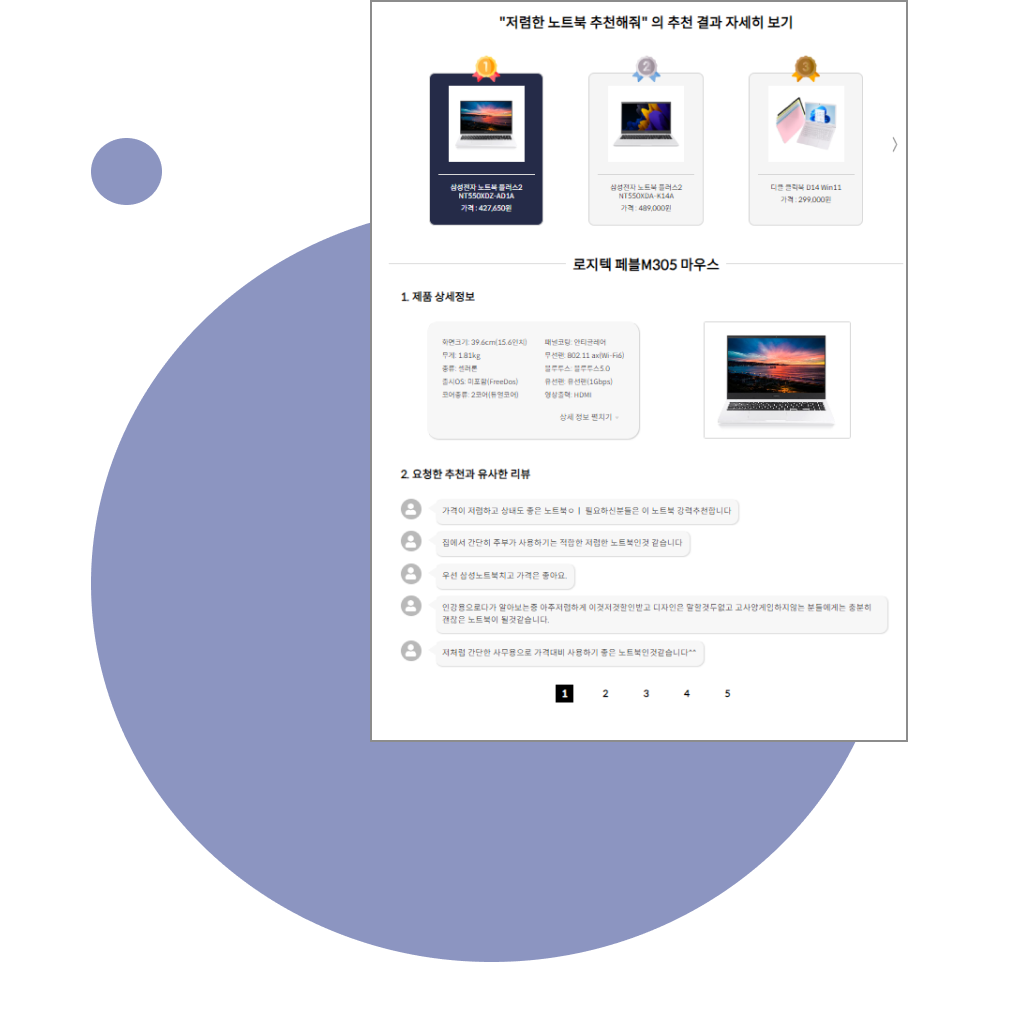
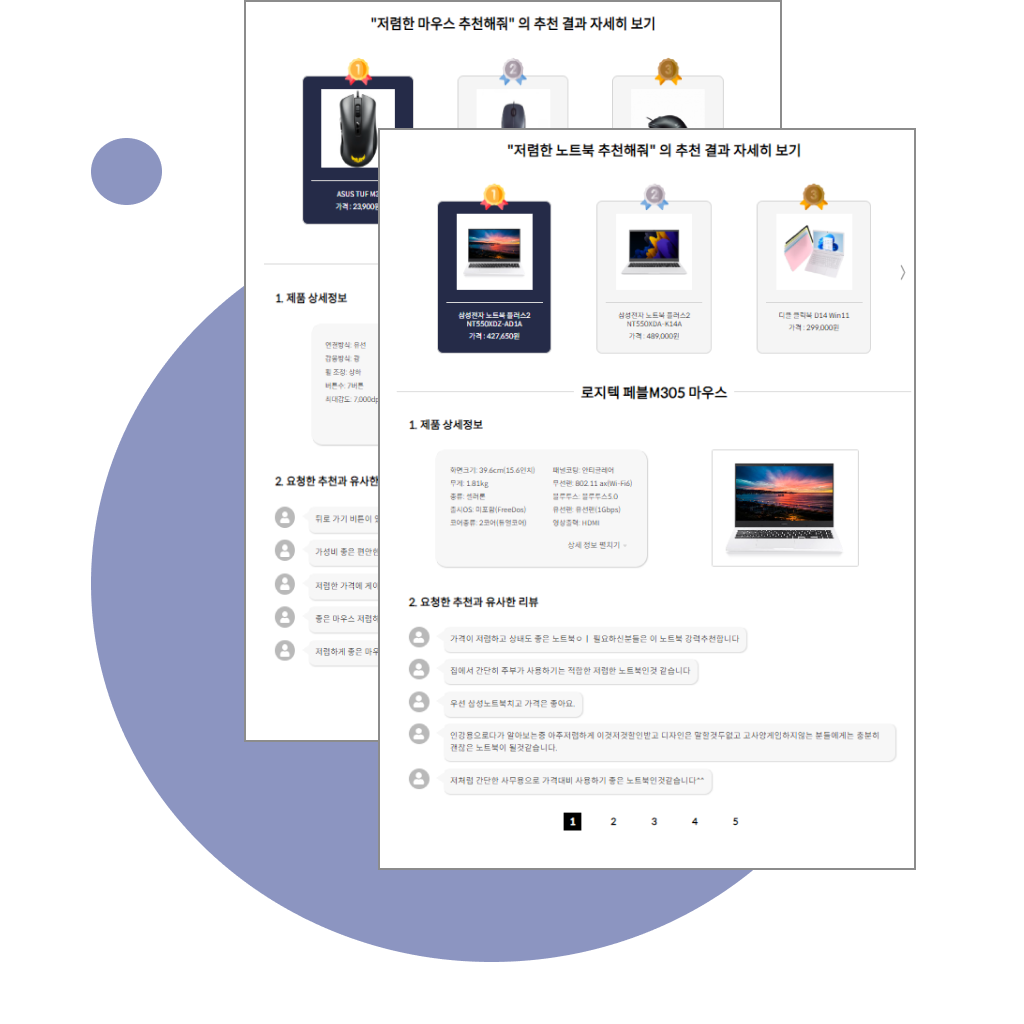
이미지 변경

Changed region(s): [[0.2188, 0.0, 0.875, 0.875], [0.875, 0.125, 0.9062, 0.7188]]

diff --git a/murerbot/src/css/intro.css b/murerbot/src/css/intro.css
@@ -44,14 +44,14 @@ body {
 }
 .intro_image{
     display: flex;
-    width:55%;
+    width:60%;
     height:auto;
     overflow: hidden;
     margin-left: 100px;
 }
 .intro_content_col{
     display: flex;
-    width:45%;
+    width:40%;
     flex-direction: column;
 }
 .intro_comment_box{
